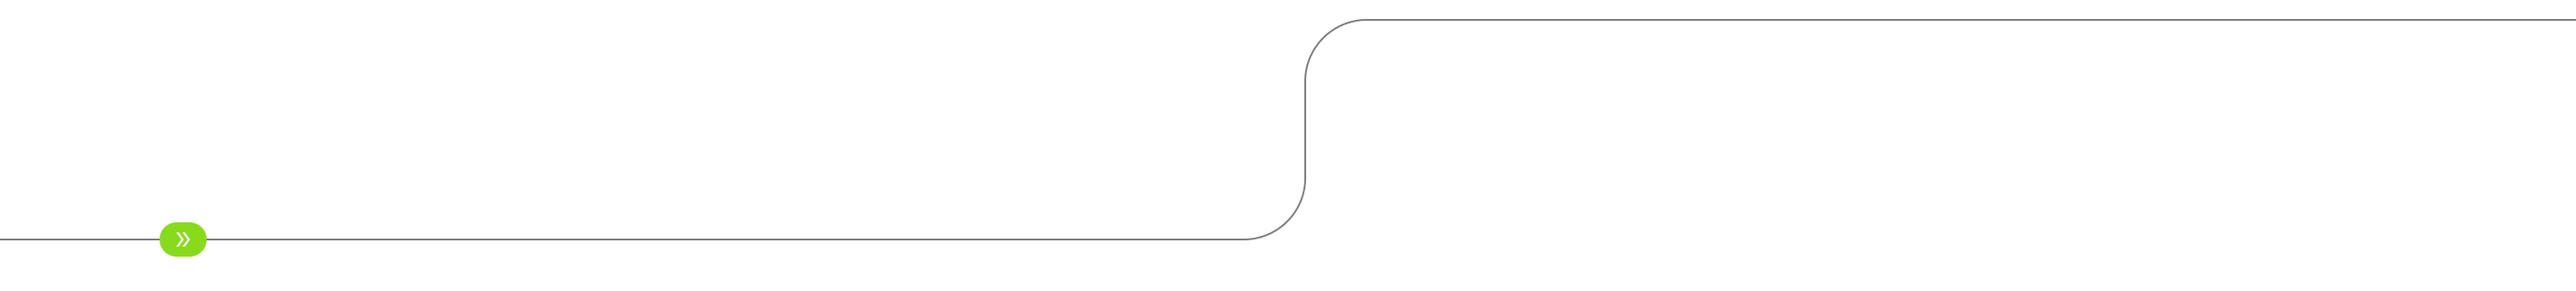
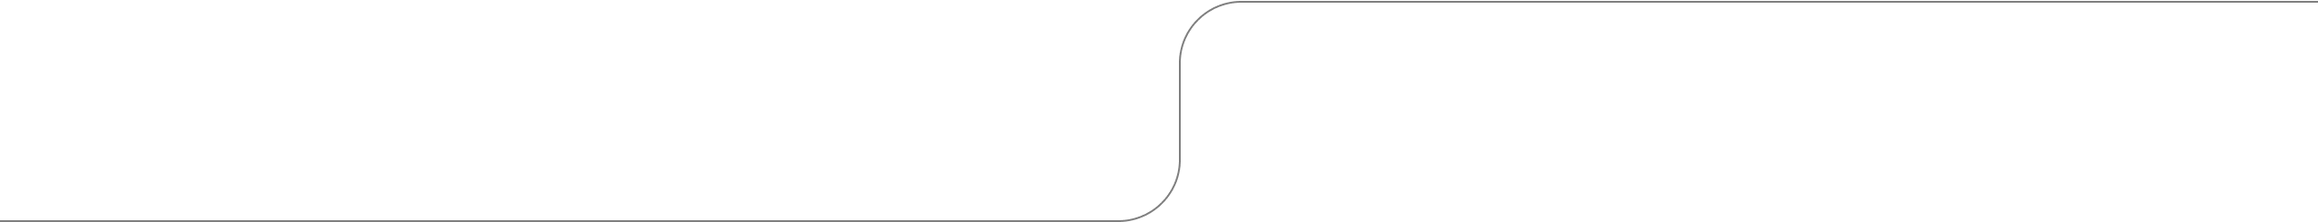
Completed User reviews page

diff --git a/src/landingpage/Testimonials.jsx b/src/landingpage/Testimonials.jsx
@@ -1,12 +1,145 @@
+import Marquee from "react-fast-marquee";
+import { reviews } from "./landing_helpers";
+import { MdChevronRight } from "react-icons/md";
+import "./landing.css";
 const Testimonials = () => {
   return (
-    <div className="bg-black font-archivo flex flex-col items-center h-[887px]">
-      <div className="flex flex-col items-center">
-        <span className="text-[#88DB1B] font-bold text-xl">Wall of Love</span>
-        <span className="text-white font-medium text-5xl">
-          What our students say about us
-        </span>
+    <div className="flex flex-col">
+      <svg
+        width="1280"
+        height="197"
+        viewBox="0 0 1280 197"
+        fill="none"
+        xmlns="http://www.w3.org/2000/svg"
+        className="w-full h-full hidden md:block translate-y-[8.7rem]"
+      >
+        <path
+          d="M-30 90C-30 76.7452 -19.2548 66 -6 66H640H938.473C946.322 66 953.675 62.1622 958.163 55.723L989.837 10.277C994.325 3.83784 1001.68 0 1009.53 0L1286 0C1299.25 0 1310 10.7452 1310 24V173C1310 186.255 1299.25 197 1286 197H-6.00004C-19.2549 197 -30 186.255 -30 173V90Z"
+          fill="#010101"
+        />
+      </svg>
+      <svg
+        width="390"
+        height="228"
+        viewBox="0 0 390 228"
+        fill="none"
+        xmlns="http://www.w3.org/2000/svg"
+        className="w-full h-full block md:hidden translate-y-[11.5rem]"
+      >
+        <path
+          d="M-15 47.4823C-15 37.5411 -6.94112 29.4822 3 29.4822H115H184.13C190.015 29.4822 195.528 26.6059 198.894 21.7794L208.712 7.70285C212.078 2.87633 217.591 0 223.476 0H386C395.941 0 404 8.05887 404 18V210C404 219.941 395.941 228 386 228H3.00001C-6.94112 228 -15 219.941 -15 210V47.4823Z"
+          fill="#010101"
+        />
+      </svg>
+
+      <div className="bg-black font-archivo flex flex-col z-10 items-center h-full">
+        <div className="flex flex-col items-center gap-3 md:gap-6 my-12 mx-16 text-center">
+          <span className="text-[#88DB1B] font-bold text-xl">Wall of Love</span>
+          <span className="text-white font-medium tracking-wide text-2xl md:text-5xl">
+            What our students say about us
+          </span>
+        </div>
+        <Marquee
+          speed={120}
+          direction="right"
+          pauseOnHover
+          pauseOnClick
+          className="mt-6 review-bg"
+        >
+          {reviews.slice(0, 3).map((item, index) => (
+            <div
+              key={`review_${index}`}
+              className=" flex flex-col w-[26.25rem] h-[13.5rem] p-9 rounded-3xl border mr-8 border-[#F7F7F726]"
+            >
+              <div className="flex items-center mb-6 gap-6">
+                <img
+                  src="https://docs.material-tailwind.com/img/face-2.jpg"
+                  alt="avatar"
+                  className="w-14 h-14 rounded-full"
+                />
+                <div className="flex flex-col h-full justify-between text-[#FEFEFE] opacity-80">
+                  <span className="font-semibold text-[18px] leading-6 tracking-wider">
+                    {item.name}
+                  </span>
+                  <span className="font-normal text-[16px] tracking-wider italic">
+                    {item.role}
+                  </span>
+                </div>
+              </div>
+              <span className="text-[#FEFEFE] opacity-80 text-xs">
+                {item.review}
+              </span>
+            </div>
+          ))}
+        </Marquee>
+        <Marquee
+          speed={200}
+          direction="right"
+          pauseOnHover
+          pauseOnClick
+          autoFill
+          className="my-6 review-bg"
+        >
+          {reviews.slice(3, 5).map((item, index) => (
+            <div
+              key={`review_${index}`}
+              className=" flex flex-col w-[26.25rem] h-[13.5rem] p-9 rounded-3xl border mr-6 border-[#F7F7F726]"
+            >
+              <div className="flex items-center mb-6 gap-6">
+                <img
+                  src="https://docs.material-tailwind.com/img/face-2.jpg"
+                  alt="avatar"
+                  className="w-14 h-14 rounded-full"
+                />
+                <div className="flex flex-col h-full justify-between text-[#FEFEFE] opacity-80">
+                  <span className="font-semibold text-[18px] leading-6 tracking-wider">
+                    {item.name}
+                  </span>
+                  <span className="font-normal text-[16px] tracking-wider italic">
+                    {item.role}
+                  </span>
+                </div>
+              </div>
+              <span className="text-[#FEFEFE] opacity-80 text-xs">
+                {item.review}
+              </span>
+            </div>
+          ))}
+        </Marquee>
+        <button className="flex text-[#F7F7F7] items-center font-normal text-xs md:text-[18px] my-16">
+          <span className="opacity-60 tracking-wide">Give a review.&nbsp;</span>
+          <span className=" tracking-wide">Express your Love!</span>
+          <i className="w-6 h-6 flex justify-center items-center">
+            <MdChevronRight />
+          </i>
+        </button>
       </div>
+      <svg
+        width="1280"
+        height="197"
+        viewBox="0 0 1280 197"
+        fill="none"
+        xmlns="http://www.w3.org/2000/svg"
+        className="w-full h-full hidden md:block -translate-y-[8.7rem] rotate-180"
+      >
+        <path
+          d="M-30 90C-30 76.7452 -19.2548 66 -6 66H640H938.473C946.322 66 953.675 62.1622 958.163 55.723L989.837 10.277C994.325 3.83784 1001.68 0 1009.53 0L1286 0C1299.25 0 1310 10.7452 1310 24V173C1310 186.255 1299.25 197 1286 197H-6.00004C-19.2549 197 -30 186.255 -30 173V90Z"
+          fill="#010101"
+        />
+      </svg>
+      <svg
+        width="390"
+        height="228"
+        viewBox="0 0 390 228"
+        fill="none"
+        xmlns="http://www.w3.org/2000/svg"
+        className="w-full h-full block md:hidden -translate-y-[11.5rem] rotate-180"
+      >
+        <path
+          d="M-15 47.4823C-15 37.5411 -6.94112 29.4822 3 29.4822H115H184.13C190.015 29.4822 195.528 26.6059 198.894 21.7794L208.712 7.70285C212.078 2.87633 217.591 0 223.476 0H386C395.941 0 404 8.05887 404 18V210C404 219.941 395.941 228 386 228H3.00001C-6.94112 228 -15 219.941 -15 210V47.4823Z"
+          fill="#010101"
+        />
+      </svg>
     </div>
   );
 };

diff --git a/src/landingpage/HeroSection.jsx b/src/landingpage/HeroSection.jsx
@@ -1,18 +1,32 @@
-import heroline from "./hero_line.png";
 import { heroImages } from "./landing_helpers";
 import "./landing.css";
-import { MdOutlineLocalLibrary } from "react-icons/md";
+import {
+  MdOutlineLocalLibrary,
+  MdKeyboardDoubleArrowRight,
+} from "react-icons/md";
 import { IoArrowForwardSharp } from "react-icons/io5";
 import { IconButton, Button, Avatar, Carousel } from "@material-tailwind/react";
 import rating from "../assets/rating.png";
 const HeroSection = () => {
   return (
     <div className="w-full relative flex flex-wrap font-archivo justify-between bg-[#F7F7F7]">
-      <img
-        src={heroline}
-        alt=""
-        className="hidden md:block absolute z-20 bottom-16"
-      />
+      <svg
+        width="1279"
+        height="123"
+        viewBox="0 0 1279 123"
+        fill="none"
+        xmlns="http://www.w3.org/2000/svg"
+        className="absolute z-[10] bottom-36 w-full hidden md:flex"
+      >
+        <path
+          d="M-69 122.5H617C635.778 122.5 651 107.278 651 88.5V67.75V35C651 16.2223 666.222 1 685 1H1001.5H1352"
+          stroke="black"
+          strokeOpacity="0.5"
+        />
+      </svg>
+      <i className="slider-anime w-7 h-5 text-white z-10 p-1.5 flex justify-center items-center rounded-full bg-[#88DB1B] absolute bottom-[8.5rem] translate-x-[88px]">
+        <MdKeyboardDoubleArrowRight />
+      </i>
       <div className="w-full md:w-fit flex flex-col items-center md:items-start p-4 ml-0 md:ml-16 mt-12">
         <div className="flex flex-col md:items-end herogradient p-4 rounded-2xl">
           <span className="font-medium text-3xl md:text-6xl">
@@ -72,7 +86,7 @@ const HeroSection = () => {
           <img src={rating} className="w-14 md:w-24 h-2.5 md:h-5" alt="" />
           <span className="font-medium text-[10px] md:text-lg">4.7</span>
         </div>
-        <span className="hidden md:block mt-12 text-[7.5rem] font-medium text-[#E7E7E7] opacity-65">
+        <span className="hidden z-20 md:block mt-12 text-[7.5rem] font-medium text-[#E7E7E7] opacity-65">
           KnowLumi
         </span>
       </div>
@@ -85,8 +99,8 @@ const HeroSection = () => {
         nextArrow={({ handleNext }) => (
           <i className="hidden" onClick={handleNext}></i>
         )}
-        className="relative w-full md:w-[38rem] h-full md:mr-3"
-        transition={{ ease:"easeIn" }}
+        className="relative z-20 w-full md:w-[38rem] h-full md:mr-3"
+        transition={{ ease: "easeIn" }}
         navigation={({ setActiveIndex, activeIndex, length }) => (
           <div className="absolute bottom-[41%] md:bottom-[31%] left-[40%] md:left-[35%] z-50  flex -translate-x-2/4 gap-1">
             {new Array(length).fill("").map((_, i) => {

diff --git a/src/landingpage/landing_helpers.js b/src/landingpage/landing_helpers.js
@@ -39,6 +39,24 @@ const heroImages = [
 
 const companies = [icon1, icon2, icon3, icon4, icon5, icon6, icon7]
 
+const reviews = [
+    {
+        name: "John Samuel", role: "UX/UI Design", review: "KnowLumi transformed my college experience! The personalized learning approach helped me grasp tech concepts effortlessly. Building real projects gave me hands-on skills crucial for my career. Now, I feel confident and ready for whatever comes my way."
+    },
+    {
+        name: "John Rodriguez", role: "Cybersecurity", review: "KnowLumi's mentorship program exceeded my expectations. The guidance I received was invaluable in navigating my career path. The platform's focus on real-world projects enhanced my practical skills immensely. I highly recommend KnowLumi to any college student looking to kickstart their career."
+    },
+    {
+        name: "Jessica Nguyen", role: "Student", review: "Enrolling in KnowLumi during my first year was a game-changer. The personalized tasks tailored to my learning style helped me grasp complex concepts with ease. The mentorship I received guided me towards my career goals. KnowLumi truly set me up for success in college and beyond."
+    },
+    {
+        name: "John Samuel", role: "UX/UI Design", review: "KnowLumi transformed my college experience! The personalized learning approach helped me grasp tech concepts effortlessly. Building real projects gave me hands-on skills crucial for my career. Now, I feel confident and ready for whatever comes my way."
+    },
+    {
+        name: "Rachel Wong", role: "Full stack development", review: "KnowLumi's approach to learning is unmatched. The platform's combination of AI-driven tasks and real-world projects provided a holistic learning experience. The community support fostered a collaborative environment where I thrived. I feel confident and prepared for my future endeavors."
+    },
+]
+
 const footerLinks = "Home,Career Tracks,Courses,How Knowlumi works,Privacy Policy,Contact Us".split(",")
 
-export { pages, faq, heroImages, companies, footerLinks }
+export { pages, faq, heroImages, companies, footerLinks, reviews }

diff --git a/src/landingpage/landing.css b/src/landingpage/landing.css
@@ -10,12 +10,30 @@
 .herogradient {
     animation: gradientanime 8s ease-out 100ms forwards;
 
-
 }
 
 .enroll-anime {
     animation: ballmove 8s linear 1ms forwards infinite;
 }
+
+.slider-anime {
+    animation: slidermove 2s linear 1ms forwards;
+}
+
+.review-bg {
+    background: linear-gradient(270deg, #010101 4.14%, rgba(1, 1, 1, 0) 22%, rgba(1, 1, 1, 0) 76.14%, #010101 94.62%);
+}
+
+@keyframes slidermove {
+    0% {
+        transform: translateX(88px);
+    }
+
+    100% {
+        transform: translateX(304px);
+    }
+}
+
 
 @keyframes ballmove {
     0% {
@@ -76,6 +94,10 @@
     background-image: url('../assets/action.png');
 }
 
+.action-line {
+    background-image: url('../assets/enroll_line.png');
+}
+
 /* bg-[url('src/assets/rect1_mobile.png')]  */
 @media (max-width: 640px) {
     .enroll-banner {
@@ -92,6 +114,10 @@
 
     .enroll2 {
         background-image: url('../assets/enroll2_mobile.png');
+    }
+
+    .action-line {
+        background-image: url('../assets/enroll_line_mobile.png');
     }
 
     .lineanime {
@@ -118,15 +144,15 @@
         }
 
         45% {
-            transform: translate(8.7rem, 0);
+            transform: translate(9.2rem, 0);
         }
 
         55% {
-            transform: translate(9.5rem, -1rem);
+            transform: translate(9.8rem, -1rem);
         }
 
         100% {
-            transform: translate(18.4rem, -1rem);
+            transform: translate(19.2rem, -1rem);
         }
     }
 

diff --git a/src/landingpage/Action.jsx b/src/landingpage/Action.jsx
@@ -1,4 +1,4 @@
-import line from "../assets/enroll_line.png";
+
 import people from "../assets/people.png";
 import "./landing.css";
 const Action = () => {
@@ -10,11 +10,8 @@ const Action = () => {
           className="bg-contain bg-no-repeat w-[22rem] flex flex-col justify-end rounded-l-2xl  h-[19.1rem] translate-y-[2.8rem]"
         ></div>
       </div>
-      <div
-        style={{ backgroundImage: `url('${line}')` }}
-        className="w-80 md:w-[71rem] h-5 md:h-20 ml-5 md:ml-0 bg-contain bg-no-repeat flex flex-col justify-end"
-      >
-        <i className="w-1 md:w-4 h-1 md:h-4 rounded-full bg-[#88DB1B] enroll-anime"></i>
+      <div className="action-line w-80 md:w-[71rem] h-7 md:h-20  bg-cover md:bg-contain bg-no-repeat flex flex-col justify-end">
+        <i className="w-3 md:w-4 h-3 md:h-4 rounded-full bg-[#88DB1B] enroll-anime"></i>
       </div>
     </div>
   );

diff --git a/src/landingpage/Companies.jsx b/src/landingpage/Companies.jsx
@@ -46,10 +46,12 @@ const Companies = () => {
           ))}
         </Marquee>
       </div>
-      <div className="flex gap-2 items-center">
-        <span className="text-black opacity-60 font-normal text-sm">View More</span>
-        <MdOutlineChevronRight className=""/>
-      </div>
+      <button className="flex gap-2 items-center">
+        <span className="text-black opacity-60 font-normal text-sm">
+          View More
+        </span>
+        <MdOutlineChevronRight className="" />
+      </button>
     </div>
   );
 };

diff --git a/src/landingpage/FaqSection.jsx b/src/landingpage/FaqSection.jsx
@@ -63,11 +63,11 @@ const FaqSection = () => {
         elit sed risus. Maecenas eget condimentum velit, sit amet feugiat
         lectus.
       </p>
-      <div className="flex text-lg font-normal gap-1 items-center my-8">
+      <button className="flex text-lg font-normal gap-1 items-center my-8">
         <span className="text-gray-500">Not yet resolved?</span>
         <span>Find help!</span>
         <IoChevronForwardOutline className="ml-3"/>
-      </div>
+      </button>
     </div>
   );
 };
